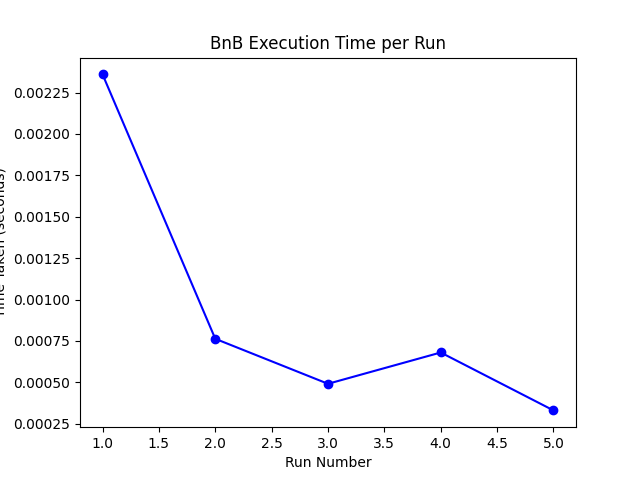
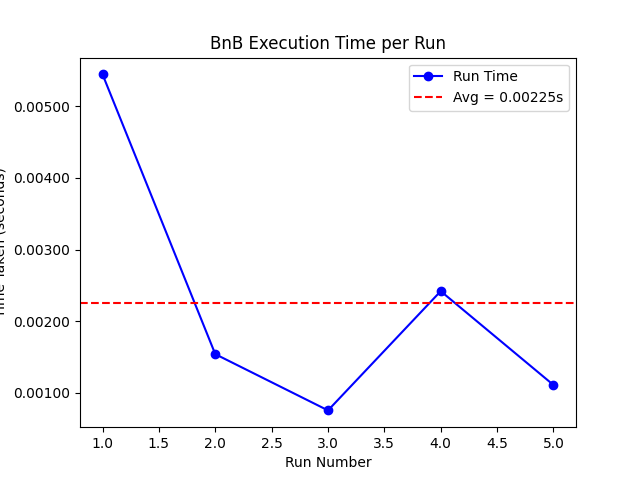
made changes

diff --git a/TSP/Hill_Climbing/wrapper.py b/TSP/Hill_Climbing/wrapper.py
@@ -35,28 +35,26 @@ def run_multiple_hill_climbing(num_runs=5, tau=600, num_nodes=10):
 
     print(f"\nAverage Time: {avg_time:.6f}s")
     print(f"Average Distance: {avg_dist:.6f}")
-    
+
+    # Plotting the line graph similar to the uploaded image
     plt.figure(figsize=(8, 5))
-    bars = plt.bar(range(1, num_runs + 1), run_times, color='skyblue', edgecolor='black')
+    x = list(range(1, num_runs + 1))
+    plt.plot(x, run_times, marker='o', color='blue', linestyle='-', label='Run Time')
+    plt.axhline(y=avg_time, color='red', linestyle='--', label=f'Avg = {avg_time:.5f}s')
 
-    for bar, time_val in zip(bars, run_times):
-        height = bar.get_height()
-        plt.text(bar.get_x() + bar.get_width()/2.0, height + 0.01, f"{time_val:.6f}s", 
-                 ha='center', va='bottom', fontsize=8, rotation=45)
-
-    plt.axhline(y=tau, color='gray', linestyle='--', label=f'Time Limit (τ = {tau}s)')
     plt.xlabel("Run Number")
-    plt.ylabel("Time Taken (s)")
-    plt.title("Hill Climbing – Time Taken Per Run")
+    plt.ylabel("Time Taken (seconds)")
+    plt.title("Hill Climbing Execution Time per Run")
     plt.legend()
     plt.tight_layout()
-    plt.savefig("hill_climbing_time_plot.png")
-    print("Plot saved as 'hill_climbing_time_plot.png'")
+    plt.savefig("hill_climbing_time_line_plot.png")
+    print("Plot saved as 'hill_climbing_time_line_plot.png'")
     plt.show()
+
 
 
     if best_history is not None:
         animate_tour(best_node_list, best_history)
 
 if __name__ == "__main__":
-    run_multiple_hill_climbing(num_runs=5, tau=30, num_nodes=30)
+    run_multiple_hill_climbing(num_runs=5, tau=30, num_nodes=10)

diff --git a/Frozen_Lake/BnB/wrapper.py b/Frozen_Lake/BnB/wrapper.py
@@ -1,5 +1,6 @@
 import time
 import matplotlib.pyplot as plt
+import matplotlib.ticker as ticker
 from BnB import branch_and_bound  # Ensure BnB is correctly imported from your main file
 
 def run_bnb_with_timing(runs=5, timeout=600):  # τ = 10 min (600 sec)
@@ -10,15 +11,20 @@ def run_bnb_with_timing(runs=5, timeout=600):  # τ = 10 min (600 sec)
         end_time = time.time()
         elapsed = end_time - start_time
         times.append(elapsed)
-        print(f"Run {i+1}: {elapsed:.2f} seconds")
+        print(f"Run {i+1}: {elapsed:.5f} seconds")
         if sum(times) > timeout:
             print("Timeout reached! Stopping further runs.")
             break
-    
-    plt.plot(range(1, len(times) + 1), times, marker='o', linestyle='-', color='b')
+
+    avg_time = sum(times) / len(times)
+
+    plt.plot(range(1, len(times) + 1), times, marker='o', linestyle='-', color='b', label="Run Time")
+    plt.axhline(y=avg_time, color='r', linestyle='--', label=f'Avg = {avg_time:.5f}s')
     plt.xlabel("Run Number")
     plt.ylabel("Time Taken (seconds)")
     plt.title("BnB Execution Time per Run")
+    plt.gca().yaxis.set_major_formatter(ticker.FormatStrFormatter('%.5f'))  # ← 5 decimal places on y-axis
+    plt.legend()
     plt.savefig("BnB_execution_time.png")
     plt.show()
 

diff --git a/Frozen_Lake/IDA/wrapper.py b/Frozen_Lake/IDA/wrapper.py
@@ -1,13 +1,13 @@
 import time
 import matplotlib.pyplot as plt
-from IDA import ida_star  # Replace with the correct module name
+from IDA import ida_star 
 
 def run_ida_star_with_timing(runs=5, timeout=600):  # τ = 10 min (600 sec)
     times = []
     
     for i in range(runs):
         start_time = time.time()
-        ida_star()  # Run IDA* search
+        ida_star()  
         end_time = time.time()
         
         elapsed = end_time - start_time
@@ -17,8 +17,6 @@ def run_ida_star_with_timing(runs=5, timeout=600):  # τ = 10 min (600 sec)
         if sum(times) > timeout:
             print("Timeout reached! Stopping further runs.")
             break
-
-    # Plot execution time per run
     plt.plot(range(1, len(times) + 1), times, marker='o', linestyle='-', color='b')
     plt.xlabel("Run Number")
     plt.ylabel("Time Taken (seconds)")
@@ -26,5 +24,4 @@ def run_ida_star_with_timing(runs=5, timeout=600):  # τ = 10 min (600 sec)
     plt.savefig("ida_star_execution_time.png")
     plt.show()
 
-# Run the wrapper function
 run_ida_star_with_timing()

diff --git a/TSP/Simuated_Annealing/wrapper.py b/TSP/Simuated_Annealing/wrapper.py
@@ -12,7 +12,7 @@ def run_sa_multiple_times(runs=5, tau=600):
     best_history = None
     best_node_list = None
 
-    env = VRPEnv(num_nodes=15, batch_size=1, num_draw=1)
+    env = VRPEnv(num_nodes=10, batch_size=1, num_draw=1)
     graph = env.reset()
     node_list = np.array(graph[0])
 
@@ -55,7 +55,6 @@ def run_sa_multiple_times(runs=5, tau=600):
         plt.ylabel("Time Taken (s)")
         plt.title("Simulated Annealing – Time Taken per Run")
         plt.legend()
-        plt.grid(True)
         plt.tight_layout()
         plt.savefig("sa_average_time_plot.png")
         print("Plot saved as 'sa_average_time_plot.png'")

diff --git a/Frozen_Lake/BnB/BnB.py b/Frozen_Lake/BnB/BnB.py
@@ -2,7 +2,7 @@ import gymnasium as gym
 import time
 from gymnasium.envs.toy_text.frozen_lake import generate_random_map
 
-n = 8
+n = 16
 env = gym.make('FrozenLake-v1', desc=generate_random_map(size=n), is_slippery=False)
 
 state, info = env.reset()

diff --git a/README.md b/README.md
@@ -1,2 +1,4 @@
 # CS514L-CS22B046_CS22B059
 Assignment-2
+
+Commands to run :
